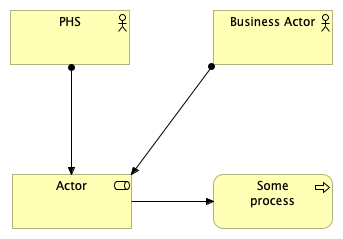
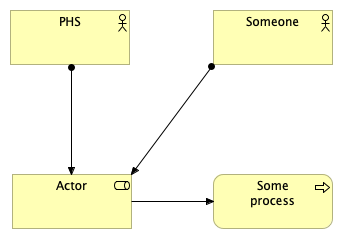
Build: (78766e2) Changing name
<manifest version="1.0.0">
  <changes>
    <object id="id-78310f98decf40c499ce02a958502e73" change="modified" />
  </changes>
</manifest>

Changed region(s): [[0.6706, 0.0586, 0.9329, 0.1172]]

diff --git a/docs/index.html b/docs/index.html
@@ -146,7 +146,7 @@
 													<li class="tree-element "><a href="id-a53730fe37014011ba671d29da73d7da/elements/id-803ae33072794cb3a8ef20b06eb0ee29.html" target="element"> PHS </a></li>
 													<li class="tree-element "><a href="id-a53730fe37014011ba671d29da73d7da/elements/id-8e5561edd4ff47a5a99780137204a9e4.html" target="element"> Actor </a></li>
 													<li class="tree-element "><a href="id-a53730fe37014011ba671d29da73d7da/elements/id-2ce74b72d10d4a83a6a9f9a0a33a2c18.html" target="element"> Some process </a></li>
-													<li class="tree-element "><a href="id-a53730fe37014011ba671d29da73d7da/elements/id-78310f98decf40c499ce02a958502e73.html" target="element"> Business Actor </a></li>
+													<li class="tree-element "><a href="id-a53730fe37014011ba671d29da73d7da/elements/id-78310f98decf40c499ce02a958502e73.html" target="element"> Someone </a></li>
 
 									</ul>
 								</li>
@@ -991,7 +991,7 @@
 													</a></li>
 													<li class="tree-element "><a href="id-a53730fe37014011ba671d29da73d7da/elements/id-5a6bf8386c48475894506bc17c3d94e9.html" target="element">
 															<span class="i18n-elementtype-AssignmentRelationship"></span>
-														(Business Actor - Actor) 
+														(Someone - Actor) 
 													</a></li>
 
 									</ul>

diff --git a/docs/id-a53730fe37014011ba671d29da73d7da/views/id-0a7cbfbf45a548bda3d3a0b8499c3c88.html b/docs/id-a53730fe37014011ba671d29da73d7da/views/id-0a7cbfbf45a548bda3d3a0b8499c3c88.html
@@ -127,7 +127,7 @@
 											</tr>
 
 											<tr>
-											    <td> <a href="../elements/id-78310f98decf40c499ce02a958502e73.html" target="element"> Business Actor </a> </td>
+											    <td> <a href="../elements/id-78310f98decf40c499ce02a958502e73.html" target="element"> Someone </a> </td>
 											    <td> <a href="../elements/id-78310f98decf40c499ce02a958502e73.html" target="element" class="i18n-elementtype-BusinessActor">
 											    </a> </td>
 											</tr>
@@ -167,7 +167,7 @@
 																		<td> <a href="../elements/id-5a6bf8386c48475894506bc17c3d94e9.html" target="element">  </a> </td>
 																		<td> <a href="../elements/id-5a6bf8386c48475894506bc17c3d94e9.html" target="element" class="i18n-elementtype-AssignmentRelationship">
 																		</a> </td>
-																		<td> <a href="../elements/id-78310f98decf40c499ce02a958502e73.html" target="element"> Business Actor </a> </td>
+																		<td> <a href="../elements/id-78310f98decf40c499ce02a958502e73.html" target="element"> Someone </a> </td>
 																		<td> <a href="../elements/id-8e5561edd4ff47a5a99780137204a9e4.html" target="element"> Actor </a> </td>
 																	</tr>
 

diff --git a/docs/id-a53730fe37014011ba671d29da73d7da/elements/model.html b/docs/id-a53730fe37014011ba671d29da73d7da/elements/model.html
@@ -284,7 +284,7 @@
 									dataFoldersContent.push({folderid:"id-f36f9dab67d544069f2284258cdfd4b0", contentid:"id-2ce74b72d10d4a83a6a9f9a0a33a2c18", contenttype:"BusinessProcess"});
 										dataElements.push({id:"id-2ce74b72d10d4a83a6a9f9a0a33a2c18", type:"BusinessProcess", specialization:decodeURL(""), name:decodeURL("Some+process"), documentation:decodeURL("")});
 									dataFoldersContent.push({folderid:"id-f36f9dab67d544069f2284258cdfd4b0", contentid:"id-78310f98decf40c499ce02a958502e73", contenttype:"BusinessActor"});
-										dataElements.push({id:"id-78310f98decf40c499ce02a958502e73", type:"BusinessActor", specialization:decodeURL(""), name:decodeURL("Business+Actor"), documentation:decodeURL("")});
+										dataElements.push({id:"id-78310f98decf40c499ce02a958502e73", type:"BusinessActor", specialization:decodeURL(""), name:decodeURL("Someone"), documentation:decodeURL("")});
 
 								dataFoldersContent.push({folderid:"id-a53730fe37014011ba671d29da73d7da", contentid:"id-1f1ba8cb465e4905baf35675330fef51", contenttype:"Folder"});
 								dataFolders.push({id:"id-1f1ba8cb465e4905baf35675330fef51", type:"Folder", name:decodeURL("Application"), documentation:decodeURL("")});

diff --git a/docs/id-a53730fe37014011ba671d29da73d7da/elements/id-78310f98decf40c499ce02a958502e73.html b/docs/id-a53730fe37014011ba671d29da73d7da/elements/id-78310f98decf40c499ce02a958502e73.html
@@ -2,7 +2,7 @@
 <html class="frame" lang="en">
 <head>
 	<meta http-equiv="Content-Type" content="text/html;charset=utf-8">
-	<title>Business Actor</title>
+	<title>Someone</title>
 
 	<!-- JQUERY -->
 	<script type="text/javascript" src="../../lib/jquery/jquery.min.js"></script>
@@ -21,7 +21,7 @@
 
 		<div class="panel-heading root-panel-heading">
             <!-- Name -->
-               <b>Business Actor</b>
+               <b>Someone</b>
 
             <!-- If a View with Viewpoint -->
 			   (<span class="i18n-elementtype-BusinessActor"></span>)
@@ -92,7 +92,7 @@
 									<tr>
 											<td><a href="../elements/id-5a6bf8386c48475894506bc17c3d94e9.html" target="element" title=""></a></td>
 											<td><span class="i18n-elementtype-AssignmentRelationship" /></td>
-											<td><a href="../elements/id-78310f98decf40c499ce02a958502e73.html" target="element"> Business Actor</a></td>
+											<td><a href="../elements/id-78310f98decf40c499ce02a958502e73.html" target="element"> Someone</a></td>
 											<td><a href="../elements/id-8e5561edd4ff47a5a99780137204a9e4.html" target="element"> Actor</a></td>
 										</tr>
 							</tbody>

diff --git a/docs/id-a53730fe37014011ba671d29da73d7da/elements/id-8e5561edd4ff47a5a99780137204a9e4.html b/docs/id-a53730fe37014011ba671d29da73d7da/elements/id-8e5561edd4ff47a5a99780137204a9e4.html
@@ -103,7 +103,7 @@
 										</tr><tr>
 											<td><a href="../elements/id-5a6bf8386c48475894506bc17c3d94e9.html" target="element" title=""></a></td>
 											<td><span class="i18n-elementtype-AssignmentRelationship" /></td>
-											<td><a href="../elements/id-78310f98decf40c499ce02a958502e73.html" target="element"> Business Actor</a></td>
+											<td><a href="../elements/id-78310f98decf40c499ce02a958502e73.html" target="element"> Someone</a></td>
 											<td><a href="../elements/id-8e5561edd4ff47a5a99780137204a9e4.html" target="element"> Actor</a></td>
 										</tr>
 							</tbody>

diff --git a/docs/id-a53730fe37014011ba671d29da73d7da/elements/id-5a6bf8386c48475894506bc17c3d94e9.html b/docs/id-a53730fe37014011ba671d29da73d7da/elements/id-5a6bf8386c48475894506bc17c3d94e9.html
@@ -50,7 +50,7 @@
 							<br>
 							<b class="i18n-relation-source"></b>
 								<a href="../elements/id-78310f98decf40c499ce02a958502e73.html" target="element">
-									Business Actor
+									Someone
 								</a>
 							<br>
 							<b class="i18n-relation-target"></b>
